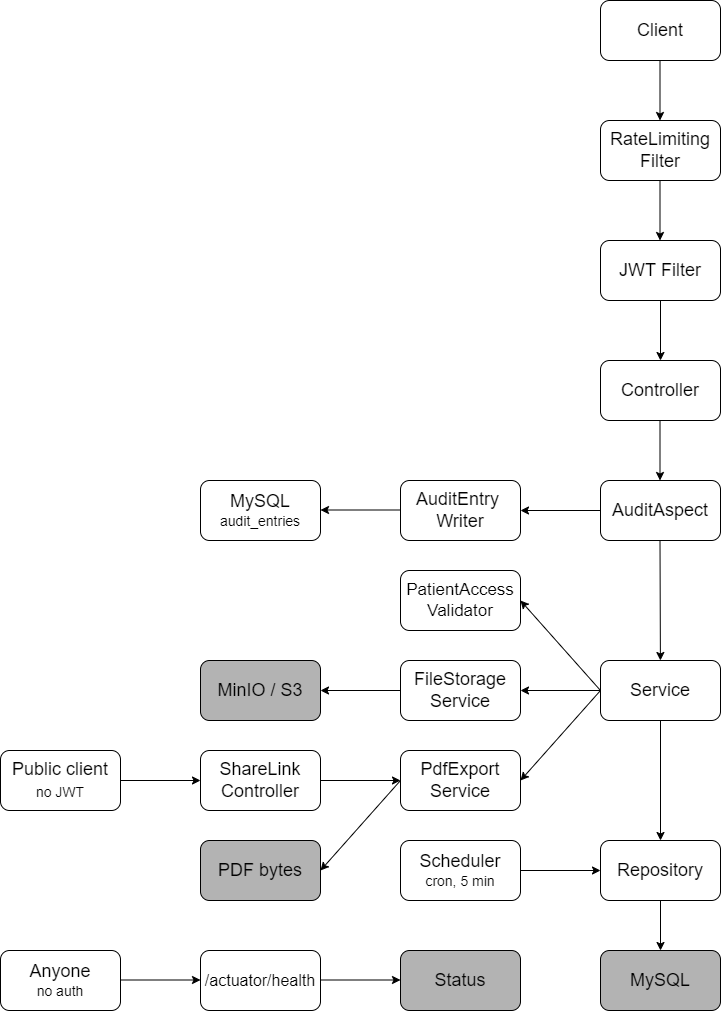
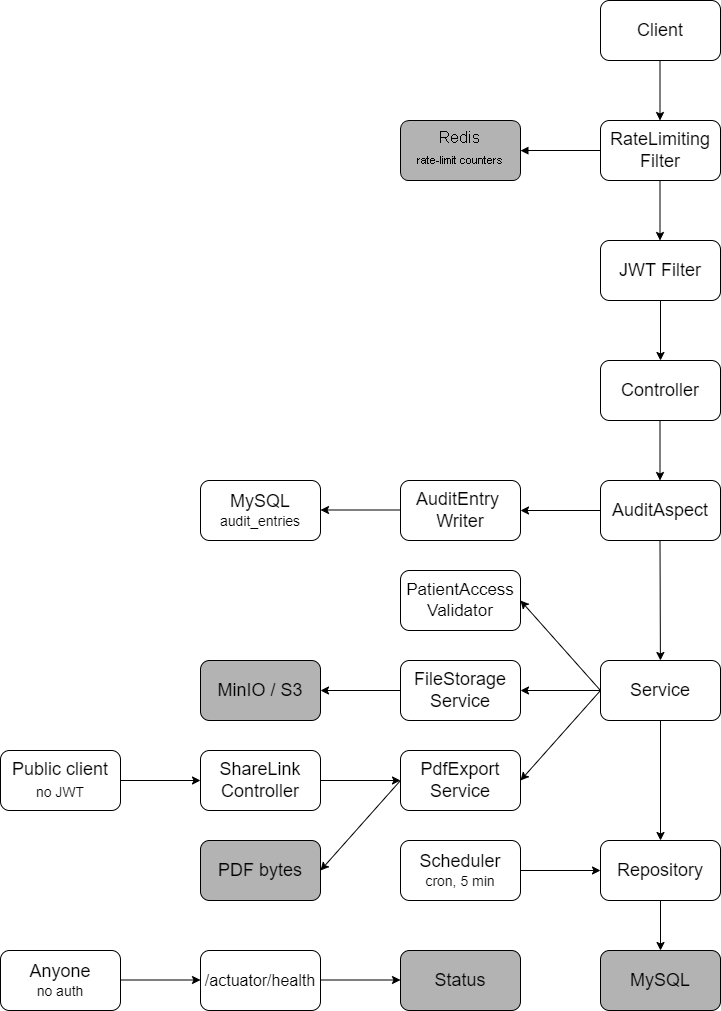
docs: make the Docker quick start copy-paste ready and sync diagrams with the code
The README now gives the real clone URL, a four-command quick start that
waits until the stack is healthy, expected first-run time, how to check
readiness, Swagger as the Windows-friendly way to try the API, a working
admin promotion command and the MinIO console login.

The ER diagram shows token_hash instead of the old plain token column, the
system diagram shows Redis behind the rate-limiting filter, and the reminder
scheduler logs ids only, so the README claim of no PII in logs holds.

Changed region(s): [[0.5492, 0.092, 0.7323, 0.184]]

diff --git a/src/main/java/com/vitaliy/medcard/scheduler/ReminderScanScheduler.java b/src/main/java/com/vitaliy/medcard/scheduler/ReminderScanScheduler.java
@@ -24,8 +24,8 @@ public class ReminderScanScheduler {
                 reminderRepository.findByDueAtBeforeAndNotifiedFalse(LocalDateTime.now());
 
         for (Reminder reminder : overdueReminders) {
-            log.info("Reminder due for patient {}: [{}] {}",
-                    reminder.getPatient().getId(), reminder.getType(), reminder.getTitle());
+            log.info("Reminder {} due for patient {}: [{}]",
+                    reminder.getId(), reminder.getPatient().getId(), reminder.getType());
             reminder.setNotified(true);
         }
 

diff --git a/README.md b/README.md
@@ -213,9 +213,9 @@ The application is fully containerized using Docker and Docker Compose, so
 anyone can run the full stack without installing Java, Maven, or MySQL
 locally.
 
-- **Docker** — packages the Spring Boot application with a predefined Java
-  runtime, plus `curl` for its own container healthcheck against
-  `/actuator/health`
+- **Docker** — a multi-stage build compiles the application from source with
+  the Maven wrapper, then runs it on a slim Java runtime as a non-root user,
+  with `curl` for its own container healthcheck against `/actuator/health`
 - **Docker Compose** — orchestrates four containers:
   - Spring Boot application
   - MySQL database (with a healthcheck gate before the app starts)
@@ -231,11 +231,24 @@ own `/actuator/health` responds.
 The application is fully containerized and can be started locally without
 manual database setup, Liquibase configuration, or environment tuning.
 
+**Quick start** — four commands, nothing else to install or edit:
+
+```bash
+git clone https://github.com/VitaliyProgrammer/medical-card-application.git
+cd medical-card-application
+cp .env.template .env
+docker compose up --build -d --wait
+```
+
+When the last command returns, the API is ready at
+[http://localhost:8080/swagger-ui.html](http://localhost:8080/swagger-ui.html).
+The steps below explain each command.
+
 ### 1. Prerequisites
 
-- **Docker**
-- **Docker Compose**
-- A web browser (for Swagger UI)
+- **Docker** with **Docker Compose v2** (Docker Desktop on Windows/macOS
+  includes both) — Java, Maven and MySQL are **not** needed on the host
+- Free ports **8080** (API) and **9001** (MinIO console)
 
 ```bash
 docker --version
@@ -245,7 +258,7 @@ docker compose version
 ### 2. Clone the repository
 
 ```bash
-git clone <this-repo-url>
+git clone https://github.com/VitaliyProgrammer/medical-card-application.git
 cd medical-card-application
 ```
 
@@ -257,35 +270,53 @@ cp .env.template .env
 
 The template already holds throwaway local values, so nothing needs editing
 for a review run. Change them (especially `JWT_SECRET`) for any real deployment.
+If this step is skipped, `docker compose` stops straight away with
+`Run cp .env.template .env first`.
 
 > `JWT_SECRET` is required and must be at least 32 characters (256 bits).
 > The application itself has deliberately no default: it refuses to start
 > without it rather than silently signing tokens with a well-known key.
 
-▶ Run the Application (Docker)
+### 4. Run the application
 
 ```bash
-docker compose up --build
+docker compose up --build -d --wait
 ```
 
 This command will:
 - **build the Spring Boot application image from source** inside Docker
-  (multi-stage build, so no local Java or Maven is needed; the first build
-  downloads dependencies and takes a few minutes)
-- **start the MySQL database container**
-- **start the MinIO object storage container** and create the documents
-  bucket automatically on first boot
-- **apply Liquibase migrations automatically**
-- **launch the application in a ready-to-use state**
+  (multi-stage build, so no local Java or Maven is needed)
+- **start MySQL, MinIO and Redis** and wait until each reports healthy
+- **apply Liquibase migrations** and create the documents bucket on first boot
+- **return only once the application itself is healthy**
 
-🛑 Stop the Application
+> ⏱ The first run downloads Maven dependencies and creates the schema, so it
+> takes about 3–6 minutes depending on the machine and network. Later runs
+> start much faster. To watch progress: `docker compose logs -f app`.
+
+Check that everything is up:
+
+```bash
+docker compose ps                              # all four services "healthy"
+curl http://localhost:8080/actuator/health     # {"status":"UP"}
+```
+
+### 5. Stop the application
 
 ```bash
 docker compose down          # stop containers, keep the data volumes
 docker compose down -v       # stop and wipe all data volumes too
 ```
 
-### 4. Try it out
+### 6. Try it out
+
+The easiest way is **Swagger UI** at
+[http://localhost:8080/swagger-ui.html](http://localhost:8080/swagger-ui.html):
+register, log in, copy the `token` from the response, press **Authorize** and
+paste it — every endpoint can then be called from the browser.
+
+The same flow with `curl` (bash syntax — on Windows use Git Bash or WSL, or
+just use Swagger UI):
 
 ```bash
 # Register a patient
@@ -334,10 +365,18 @@ visit, etc.) — see Swagger UI for the full list.
 > client IP is used; leave it at `none` when the app is exposed directly,
 > otherwise a client could forge `X-Forwarded-For` to dodge the limit.
 
-> `ADMIN` accounts can't self-register on purpose; to try the
-> `/api/audit-entries` or `/actuator/metrics` endpoints, insert an admin row
-> directly: `docker compose exec mysqldb mysql -uroot -p<MYSQLDB_ROOT_PASSWORD> medical_card_application`,
-> then `UPDATE users SET role = 'ADMIN' WHERE email = '...';`.
+> `ADMIN` accounts can't self-register on purpose. To try the
+> `/api/audit-entries` or `/actuator/metrics` endpoints, promote a registered
+> user directly in the database (the password is the one from `.env.template`),
+> then **log in again** — the role is stored inside the JWT:
+>
+> ```bash
+> docker compose exec mysqldb mysql -uroot -proot_pass medical_card_application \
+>   -e "UPDATE users SET role = 'ADMIN' WHERE email = 'patient@example.com';"
+> ```
+
+> MinIO console ([http://localhost:9001](http://localhost:9001)) login:
+> `medcard_storage` / `medcard_storage_pass` (from `.env.template`).
 
 ## Running the tests
 
@@ -347,8 +386,9 @@ visit, etc.) — see Swagger UI for the full list.
 
 Unit tests (Mockito) run with no external dependencies. Repository/controller
 integration tests use [Testcontainers](https://testcontainers.com/) to spin up
-a real, disposable MySQL container **and** a real, disposable MinIO container
-— Docker must be running for those.
+real, disposable MySQL, MinIO and Redis containers — Docker must be running
+for those. Unlike the Docker quick start, running the tests needs JDK 17 on
+the host (the Maven wrapper downloads Maven itself).
 
 ## 📘 API Documentation
 
